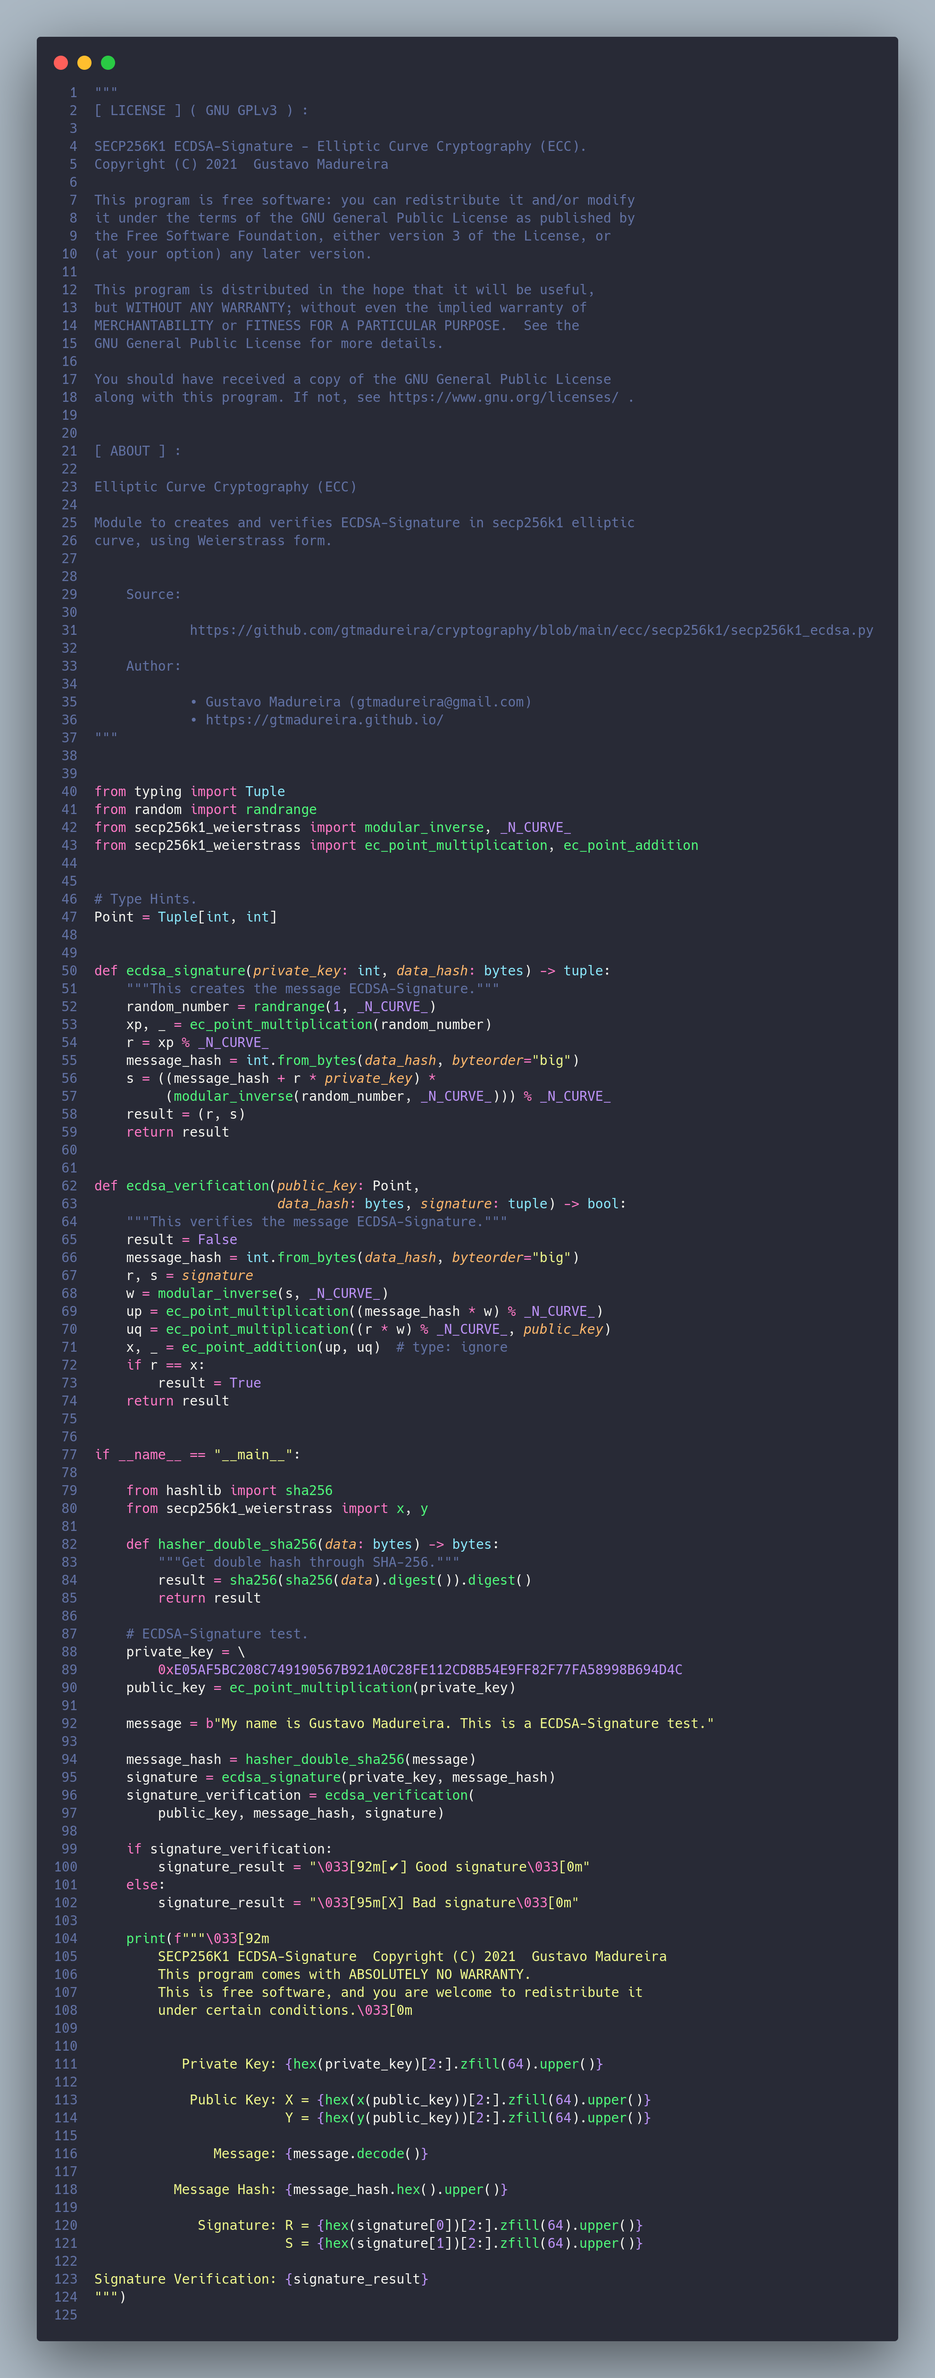
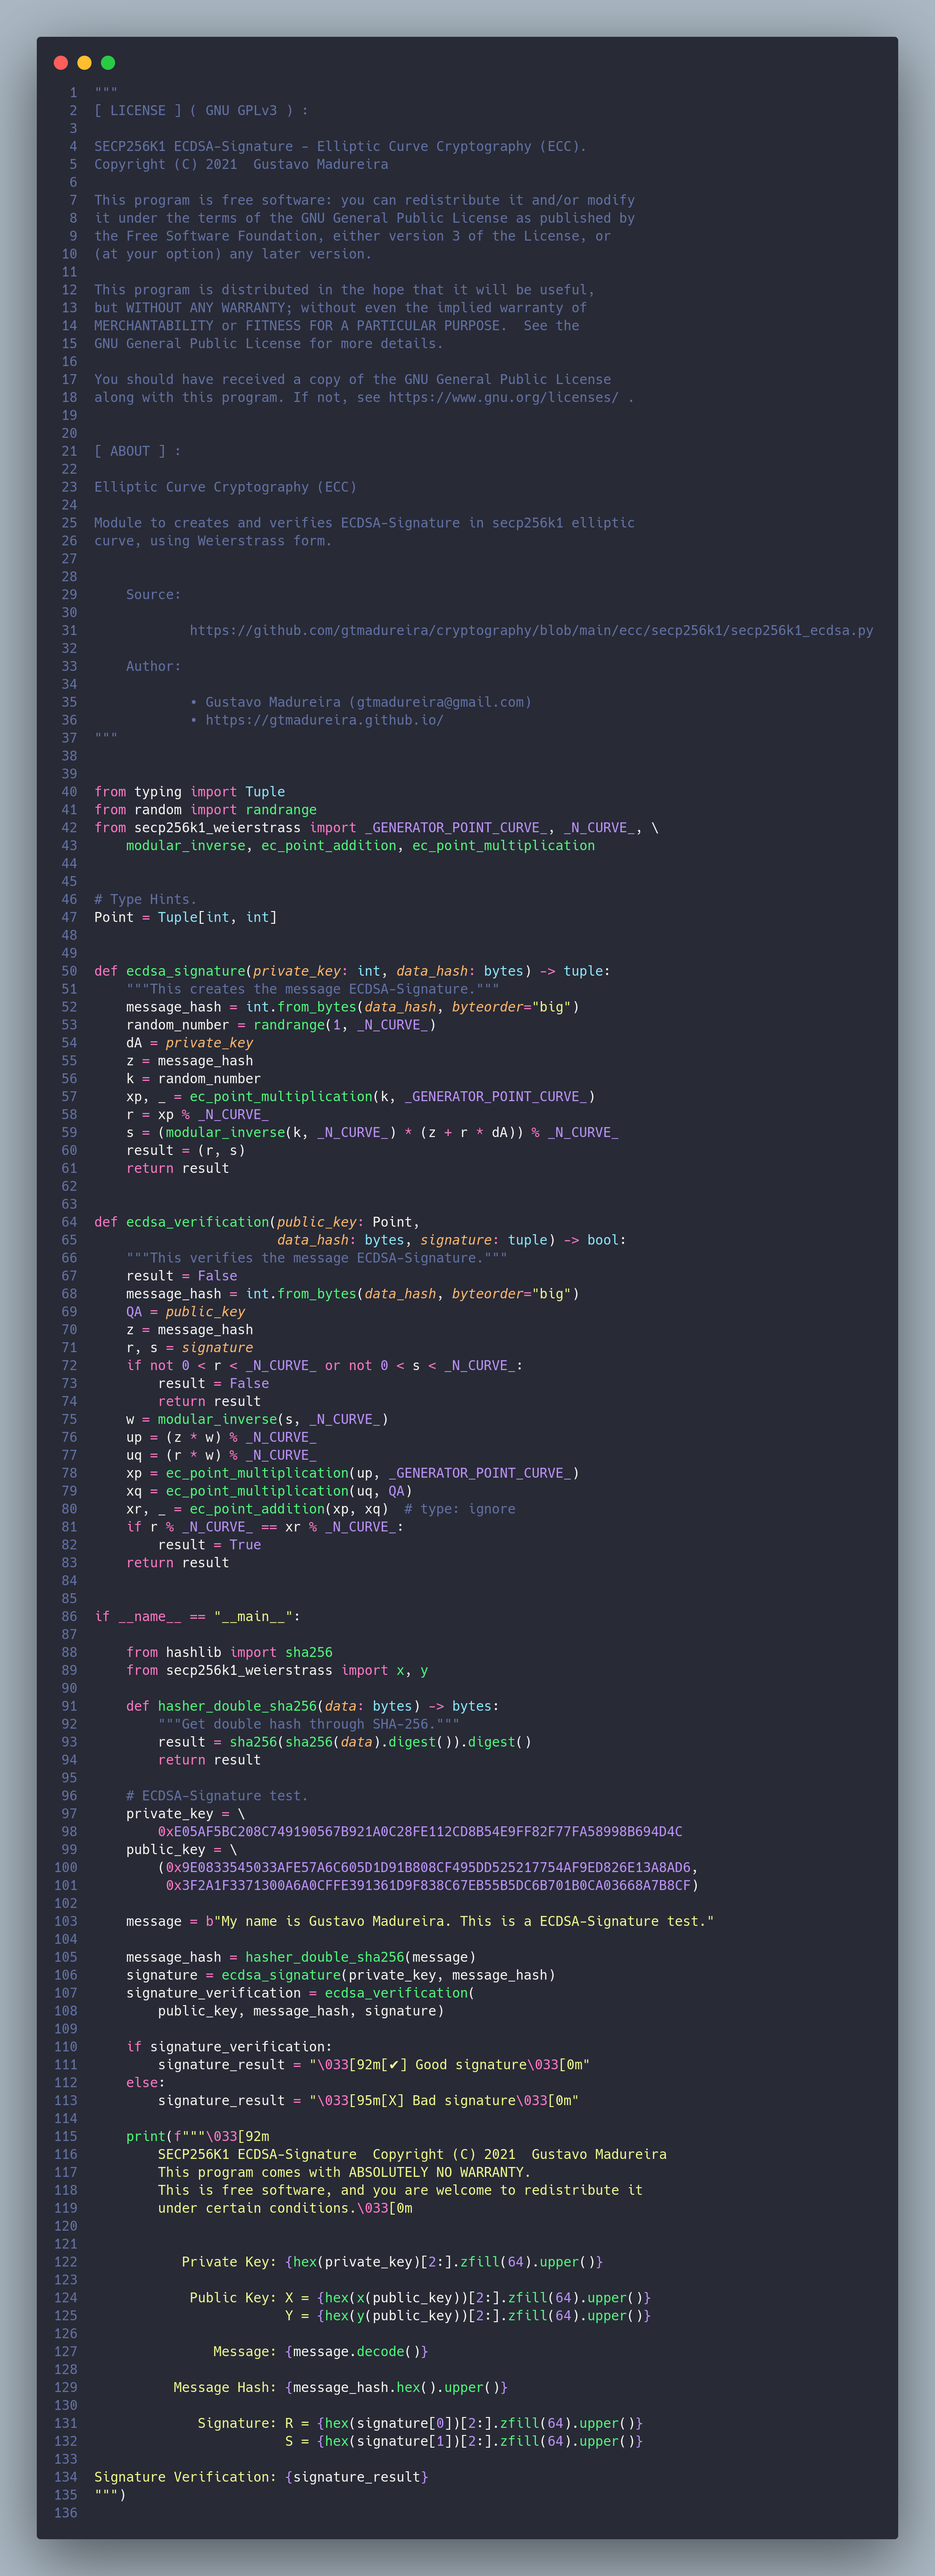
Elliptic Curve Cryptography (ECC), with curve secp256k1.

Changed region(s): [[0.0616, 0.0, 0.7386, 0.9964], [0.3693, 0.2491, 0.4309, 0.3425], [0.5848, 0.4359, 0.6463, 0.4671]]

diff --git a/ecc/secp256k1/secp256k1_ecdsa.py b/ecc/secp256k1/secp256k1_ecdsa.py
@@ -39,8 +39,8 @@ curve, using Weierstrass form.
 
 from typing import Tuple
 from random import randrange
-from secp256k1_weierstrass import modular_inverse, _N_CURVE_
-from secp256k1_weierstrass import ec_point_multiplication, ec_point_addition
+from secp256k1_weierstrass import _GENERATOR_POINT_CURVE_, _N_CURVE_, \
+    modular_inverse, ec_point_addition, ec_point_multiplication
 
 
 # Type Hints.
@@ -49,12 +49,14 @@ Point = Tuple[int, int]
 
 def ecdsa_signature(private_key: int, data_hash: bytes) -> tuple:
     """This creates the message ECDSA-Signature."""
-    random_number = randrange(1, _N_CURVE_)
-    xp, _ = ec_point_multiplication(random_number)
-    r = xp % _N_CURVE_
     message_hash = int.from_bytes(data_hash, byteorder="big")
-    s = ((message_hash + r * private_key) *
-         (modular_inverse(random_number, _N_CURVE_))) % _N_CURVE_
+    random_number = randrange(1, _N_CURVE_)
+    dA = private_key
+    z = message_hash
+    k = random_number
+    xp, _ = ec_point_multiplication(k, _GENERATOR_POINT_CURVE_)
+    r = xp % _N_CURVE_
+    s = (modular_inverse(k, _N_CURVE_) * (z + r * dA)) % _N_CURVE_
     result = (r, s)
     return result
 
@@ -64,12 +66,19 @@ def ecdsa_verification(public_key: Point,
     """This verifies the message ECDSA-Signature."""
     result = False
     message_hash = int.from_bytes(data_hash, byteorder="big")
+    QA = public_key
+    z = message_hash
     r, s = signature
+    if not 0 < r < _N_CURVE_ or not 0 < s < _N_CURVE_:
+        result = False
+        return result
     w = modular_inverse(s, _N_CURVE_)
-    up = ec_point_multiplication((message_hash * w) % _N_CURVE_)
-    uq = ec_point_multiplication((r * w) % _N_CURVE_, public_key)
-    x, _ = ec_point_addition(up, uq)  # type: ignore
-    if r == x:
+    up = (z * w) % _N_CURVE_
+    uq = (r * w) % _N_CURVE_
+    xp = ec_point_multiplication(up, _GENERATOR_POINT_CURVE_)
+    xq = ec_point_multiplication(uq, QA)
+    xr, _ = ec_point_addition(xp, xq)  # type: ignore
+    if r % _N_CURVE_ == xr % _N_CURVE_:
         result = True
     return result
 
@@ -87,7 +96,9 @@ if __name__ == "__main__":
     # ECDSA-Signature test.
     private_key = \
[1 lines of base64/hex data omitted]
-    public_key = ec_point_multiplication(private_key)
+    public_key = \
+        (0x9E0833545033AFE57A6C605D1D91B808CF495DD525217754AF9ED826E13A8AD6,
[1 lines of base64/hex data omitted]
 
     message = b"My name is Gustavo Madureira. This is a ECDSA-Signature test."
 

diff --git a/ecc/secp256k1/secp256k1_jacobian.py b/ecc/secp256k1/secp256k1_jacobian.py
@@ -94,11 +94,17 @@ def modular_inverse(k: int, p: int) -> int:
         old_s, s = (s, old_s - quotient * s)
         old_t, t = (t, old_t - quotient * t)
     gcd, x, y = (old_r, old_s, old_t)
-    assert gcd == 1
-    assert (k * x) % p == 1
     if k == 1:
+        assert gcd == 1
+        assert (k * x) % p == 1
         assert (p * y) % k == 0
-    if k != 1:
+    if k == p:
+        assert gcd == p
+        assert (k * x) % p == 0
+        assert (p * y) % k == 0
+    if k != 1 and k != p:
+        assert gcd == 1
+        assert (k * x) % p == 1
         assert (p * y) % k == 1
     result = x % p
     return result
@@ -178,6 +184,9 @@ def from_jacobian(point: Jacobian_Coordinate) -> Optional[Point]:
     xp, yp, zp = point
     if zp == 0:
         result = None
+        return result
+    if zp == 1:
+        result = (xp, yp)
         return result
     inv_1 = modular_inverse(zp, _FP_CURVE_)
     inv_2 = (inv_1 ** 2) % _FP_CURVE_
@@ -299,9 +308,8 @@ def jacobian_point_addition(
     return result
 
 
-def jacobian_point_multiplication(
-        scalar: int,
-        point: Optional[Point] = _GENERATOR_POINT_CURVE_) -> Point:
+def jacobian_point_multiplication(scalar: int,
+                                  point: Optional[Point]) -> Point:
     """
     Point multiplication in elliptic curve, using Jacobian coordinate
     (x, y, z).
@@ -352,7 +360,8 @@ if __name__ == "__main__":
     # Elliptic curve point multiplication test.
     private_key = 1
     while True:
-        public_key = jacobian_point_multiplication(private_key)
+        public_key = jacobian_point_multiplication(
+            private_key, _GENERATOR_POINT_CURVE_)
         if has_even_y(public_key):
             prefix = "02"
         else:

diff --git a/ecc/secp256k1/secp256k1_weierstrass.py b/ecc/secp256k1/secp256k1_weierstrass.py
@@ -84,18 +84,27 @@ def modular_inverse(k: int, p: int) -> int:
     if k < 0:
         result = p - modular_inverse(-k, p)
         return result
-    r, old_r = (k, p)
-    s, old_s = (1, 0)
-    t, old_t = (0, 1)
+    r, old_r = (p, k)
+    s, old_s = (0, 1)
+    t, old_t = (1, 0)
     while r != 0:
         quotient = old_r // r
         old_r, r = (r, old_r - quotient * r)
         old_s, s = (s, old_s - quotient * s)
         old_t, t = (t, old_t - quotient * t)
     gcd, x, y = (old_r, old_s, old_t)
-    assert gcd == 1
-    assert (x * k) % p == 1
-    assert (y * p) % k == 1
+    if k == 1:
+        assert gcd == 1
+        assert (k * x) % p == 1
+        assert (p * y) % k == 0
+    if k == p:
+        assert gcd == p
+        assert (k * x) % p == 0
+        assert (p * y) % k == 0
+    if k != 1 and k != p:
+        assert gcd == 1
+        assert (k * x) % p == 1
+        assert (p * y) % k == 1
     result = x % p
     return result
 
@@ -210,9 +219,7 @@ def ec_point_addition(point_p: Optional[Point],
     return result
 
 
-def ec_point_multiplication(
-        scalar: int,
-        point: Optional[Point] = _GENERATOR_POINT_CURVE_) -> Point:
+def ec_point_multiplication(scalar: int, point: Optional[Point]) -> Point:
     """
     Point multiplication in elliptic curve.
 
@@ -260,7 +267,8 @@ if __name__ == "__main__":
     # Elliptic curve point multiplication test.
     private_key = 1
     while True:
-        public_key = ec_point_multiplication(private_key)
+        public_key = ec_point_multiplication(
+            private_key, _GENERATOR_POINT_CURVE_)
         if has_even_y(public_key):
             prefix = "02"
         else:

diff --git a/ecc/secp256k1/secp256k1_test_generator.py b/ecc/secp256k1/secp256k1_test_generator.py
@@ -1,20 +1,21 @@
-import secp256k1_jacobian
-import secp256k1_weierstrass
+from secp256k1_weierstrass import _GENERATOR_POINT_CURVE_, \
+    ec_point_multiplication
+from secp256k1_jacobian import jacobian_point_multiplication
 
 
 private_key = "634737958D20C72F558B35AC9ED9AC9F" \
               "530990EF4E10E9BB5456A650EB439E9C"
 
 
-public_key_w = secp256k1_weierstrass.ec_point_multiplication(
-    int("0x" + private_key, 16))
+public_key_w = ec_point_multiplication(
+    int("0x" + private_key, 16), _GENERATOR_POINT_CURVE_)
 if public_key_w[1] % 2 == 1:
     prefix_w = "03"
 else:
     prefix_w = "02"
 
-public_key_j = secp256k1_jacobian.jacobian_point_multiplication(
-    int("0x" + private_key, 16))
+public_key_j = jacobian_point_multiplication(
+    int("0x" + private_key, 16), _GENERATOR_POINT_CURVE_)
 if public_key_j[1] % 2 == 1:
     prefix_j = "03"
 else:
